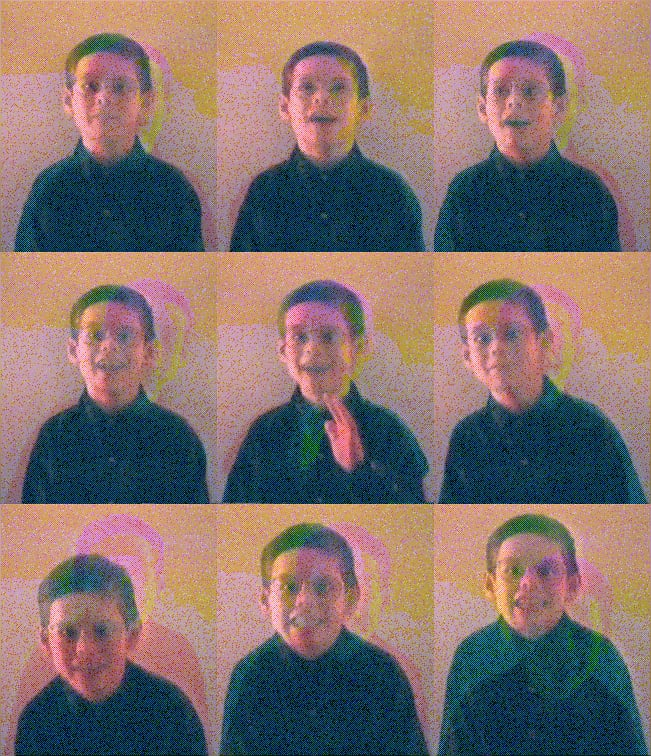
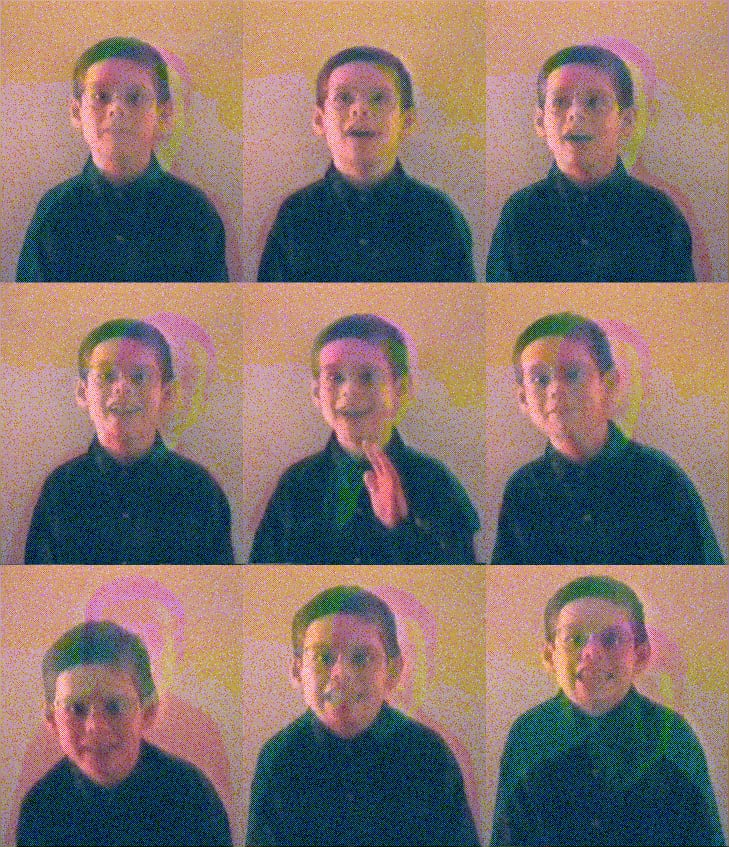
Play the kiddo clips from a frame sheet at 12fps
Each stegassette carried a still per frame at 6fps, and the page stretched
those stills across whatever length the audio turned out to be. It now carries
one sheet — every frame tiled into a single JPEG with a frames.json beside it
— and the clip runs on the frame rate the grid names.

The sheet is a bigger payload than the stills were, and these carriers had no
headroom, so every picture came back from the re-encode larger. The five
--og-width/--og-height pairs state those sizes, so the markup had to move with
the media. The thumbnails are of the new pixels.

diff --git a/kiddo/index.js b/kiddo/index.js
@@ -1,19 +1,22 @@
 // The kiddo gallery. A room per year, as in geese/ — one work, one viewport,
 // nothing else in it. Tapping the picture loads and plays it.
 //
-// A kiddo stegassette holds one audio entry, a run of `frame-001…` JPEG stills
-// at 6fps, and three text entries (Metadata, Quote, Message) the page does not
-// show yet. RevealPlayer decodes all of them and plays the audio; the stills
-// are ours to draw. There is no callback per frame, so the clip runs off its own
-// clock — `audioContext.currentTime - player.t0`, wrapped by `player.duration`
-// — which is the same clock the reveal sweeps on. One playhead, two pictures.
+// A kiddo stegassette holds one audio entry, a frame sheet — every still of the
+// clip tiled into one JPEG, with a `frames.json` beside it holding the grid —
+// and three text entries (Metadata, Quote, Message) the page does not show yet.
+// RevealPlayer decodes all of them and plays the audio; the sheet is ours to
+// draw from. There is no callback per frame, so the clip runs off its own clock
+// — `audioContext.currentTime - player.t0`, wrapped by `player.duration` —
+// which is the same clock the reveal sweeps on. One playhead, two pictures.
 //
 // `Stegassette` is the global installed by ../lib/stegassette.js.
 
-// How much of a frame's turn goes to dissolving into the next one. At 6fps a
-// cut lands hard, and the source is soft VHS: a dissolve over the tail of each
-// turn carries the motion without smearing the whole frame. 0 cuts, 1 dissolves
-// end to end and never holds a frame still.
+// How much of a frame's turn goes to dissolving into the next one. At 12fps a
+// cut still lands hard, and the source is soft VHS: a dissolve over the tail of
+// each turn carries the motion without smearing the whole frame. A share of the
+// turn rather than a span, so it holds its look at any frame rate — half of a
+// 12fps turn is ~42 ms. 0 cuts, 1 dissolves end to end and never holds a frame
+// still.
 const FADE = 0.5;
 
 // ease the ramp: a linear dissolve reads as a lurch through its midpoint
@@ -23,34 +26,55 @@ let audioContext;
 let current = null;
 let building = false;
 
-// the stills, in order. Names are zero-padded to a fixed width, so they sort
-// as strings — but sort explicitly rather than trusting entry order.
-async function loadFrames(entries) {
-  return Promise.all(
-    entries
-      .filter((e) => e.mimetype.startsWith("image/") && /^frame-\d+$/.test(e.name))
-      .sort((a, b) => a.name.localeCompare(b.name))
-      .map((e) => createImageBitmap(new Blob([e.data], { type: e.mimetype }))),
+// The clip, as one bitmap and the grid that walks it. A sheet is one entry
+// however long the clip is, where a still per frame costs an entry each — and
+// the header counts entries in a single byte, so a long clip at a real frame
+// rate cannot be carried that way at all. The grid names its own frame rate,
+// so the clip plays at the speed it was cut at rather than at whatever speed
+// its frame count over the audio's length works out to.
+async function loadSheet(entries) {
+  const sheet = entries.find(
+    (e) => e.name === "frames" && e.mimetype.startsWith("image/"),
   );
+  const grid = entries.find((e) => e.name === "frames.json");
+  if (!sheet || !grid) return null;
+  const { cols, cellWidth, cellHeight, count, fps } = JSON.parse(
+    new TextDecoder().decode(grid.data),
+  );
+  return {
+    bitmap: await createImageBitmap(new Blob([sheet.data], { type: sheet.mimetype })),
+    cols,
+    cellWidth,
+    cellHeight,
+    count,
+    fps,
+  };
 }
 
 // ── the clip ────────────────────────────────────────────────────────────────
 
-// `mix` is how far into the dissolve this frame is, 0–1
+// one cell of the sheet, drawn over the whole canvas — which build() sized to
+// exactly one cell, so the two can never disagree
+function drawCell(rec, i) {
+  const { bitmap, cols, cellWidth: cw, cellHeight: ch } = rec.sheet;
+  rec.ctx.drawImage(bitmap, (i % cols) * cw, Math.floor(i / cols) * ch, cw, ch, 0, 0, cw, ch);
+}
+
+// `mix` is how far into the dissolve this frame is, 0–1. Both cells cover the
+// canvas, so the outgoing frame needs no clear underneath.
 function paint(rec, i, mix) {
-  const { frames, film, ctx } = rec;
-  if (!frames?.[i]) return;
-  ctx.drawImage(frames[i], 0, 0, film.width, film.height);
+  if (!rec.sheet) return;
+  drawCell(rec, i);
   if (mix > 0) {
     // the clip loops with the audio, so the last frame dissolves into the first
-    ctx.globalAlpha = mix;
-    ctx.drawImage(frames[(i + 1) % frames.length], 0, 0, film.width, film.height);
-    ctx.globalAlpha = 1;
+    rec.ctx.globalAlpha = mix;
+    drawCell(rec, (i + 1) % rec.sheet.count);
+    rec.ctx.globalAlpha = 1;
   }
 }
 
 function runFilm(rec) {
-  const { player, frames } = rec;
+  const { player, sheet } = rec;
   const tick = () => {
     if (!player.playing) {
       rec.raf = null;
@@ -59,9 +83,11 @@ function runFilm(rec) {
     const raw = player.audioContext.currentTime - player.t0;
     const at = raw > 0 ? raw % player.duration : 0;
     // where the playhead sits in frames, not seconds: the whole part picks the
-    // frame, the fraction is how far through its turn we are
-    const pos = (at / player.duration) * frames.length;
-    const i = Math.min(frames.length - 1, Math.floor(pos));
+    // frame, the fraction is how far through its turn we are. The sheet carries
+    // its own frame rate, so a sheet that runs short of the audio holds its last
+    // frame rather than being stretched across it.
+    const pos = at * sheet.fps;
+    const i = Math.min(sheet.count - 1, Math.floor(pos));
     const into = pos - i;
     paint(
       rec,
@@ -99,13 +125,13 @@ async function build(rec) {
     audioContext,
     className: "rev",
   });
-  rec.frames = await loadFrames(rec.player.entries);
-  if (!rec.frames.length) throw new Error("no frame entries in stegassette");
+  rec.sheet = await loadSheet(rec.player.entries);
+  if (!rec.sheet) throw new Error("no frame sheet in stegassette");
 
-  // the clip's pane is sized by one edge; the frames' own ratio finds the
+  // the clip's pane is sized by one edge; the cell's own ratio finds the
   // other, and that ratio comes out of the payload rather than a guess here
-  rec.film.width = rec.frames[0].width;
-  rec.film.height = rec.frames[0].height;
+  rec.film.width = rec.sheet.cellWidth;
+  rec.film.height = rec.sheet.cellHeight;
   rec.room.style.setProperty("--film-share", rec.film.width / rec.film.height);
 
   // the decode surface covers the button; the thumbnail stays to hold the frame
@@ -163,7 +189,7 @@ document.querySelectorAll(".room[data-year]").forEach((room) => {
     media: room.querySelector("img.media"),
     film: room.querySelector(".film canvas"),
     player: null,
-    frames: null,
+    sheet: null,
     raf: null,
   };
   rec.ctx = rec.film.getContext("2d");

diff --git a/kiddo/index.html b/kiddo/index.html
@@ -208,7 +208,7 @@
         class="room"
         data-year="1992"
         data-shape="wide"
-        style="--og-width: 1368px; --og-height: 379px"
+        style="--og-width: 1513px; --og-height: 419px"
       >
         <button class="work" aria-pressed="false">
           <img
@@ -236,7 +236,7 @@
         class="room"
         data-year="1994"
         data-shape="wide"
-        style="--og-width: 1391px; --og-height: 1034px"
+        style="--og-width: 1664px; --og-height: 1237px"
       >
         <button class="work" aria-pressed="false">
           <img
@@ -264,7 +264,7 @@
         class="room"
         data-year="1995"
         data-shape="tall"
-        style="--og-width: 651px; --og-height: 756px"
+        style="--og-width: 729px; --og-height: 847px"
       >
         <button class="work" aria-pressed="false">
           <img
@@ -292,7 +292,7 @@
         class="room"
         data-year="1997"
         data-shape="tall"
-        style="--og-width: 559px; --og-height: 806px"
+        style="--og-width: 650px; --og-height: 936px"
       >
         <button class="work" aria-pressed="false">
           <img
@@ -320,7 +320,7 @@
         class="room"
         data-year="2002"
         data-shape="wide"
-        style="--og-width: 1351px; --og-height: 583px"
+        style="--og-width: 1632px; --og-height: 705px"
       >
         <button class="work" aria-pressed="false">
           <img
@@ -347,7 +347,7 @@
       <section class="room placard">
         <p>
           The visual distortion in these images is the result of an audio
-          waveform, image frames (6fps), and text, stored in image pixels. They
+          waveform, image frames (12fps), and text, stored in image pixels. They
           were created using code libraries that can be found at
           <a href="https://amplib.app">amplib.app</a>. The same tools are used
           here to decode and play them back as sound and&nbsp;video.

diff --git a/kiddo/README.md b/kiddo/README.md
@@ -2,9 +2,16 @@
 
 Five moments of home video — 1992, 1994, 1995, 1997, 2002 — one picture each.
 
-Each stegassette holds the whole moment: the audio, a run of `frame-001…`
-JPEG stills at 6fps and 128px wide, and three text entries (`Metadata`,
-`Quote`, `Message`). There are no video or audio files on this page.
+Each stegassette holds the whole moment: the audio, a frame sheet — every
+still of the clip at 12fps and 128px wide, tiled into one JPEG, with a
+`frames.json` beside it holding the grid — and three text entries
+(`Metadata`, `Quote`, `Message`). There are no video or audio files on this
+page.
+
+A sheet is one entry however long the clip is, where a still per frame costs
+an entry each. The header counts entries in a single byte, so a per-frame
+sequence wraps past 255 and takes the entry table with it — which is what
+these clips do at this frame rate.
 
 The page is built on `geese/`: a promenade of rooms, one work to a room, each
 picture hung at its own native size against a veiled enlargement of itself.
@@ -20,17 +27,24 @@ The text entries are decoded and go unused for now. The page showed them on a
 card beside the clip — the scene, the year, the quote, and the note I wrote
 back to the kid in the picture. `git show 21fc663:kiddo/index.html` has it.
 
-The clip dissolves rather than cuts. Six frames a second is slow enough that
-a cut reads as a stutter, so each frame holds for the first part of its turn
-and crossfades into the next over the rest. `FADE` in `index.js` sets how
-much of the turn goes to the dissolve: 0 cuts, 1 never holds a frame still.
+The clip dissolves rather than cuts. Twelve frames a second is still slow
+enough that a cut reads as a stutter, so each frame holds for the first part
+of its turn and crossfades into the next over the rest. `FADE` in `index.js`
+sets how much of the turn goes to the dissolve: 0 cuts, 1 never holds a frame
+still.
 
 `index.js` drives `Stegassette.createRevealPlayer` from `../lib/stegassette.js`.
-The player exposes `entries`, so the stills and the text come straight off it.
+The player exposes `entries`, so the sheet and the text come straight off it.
 It gives no per-frame callback, so the clip runs off the player's own clock —
 `audioContext.currentTime - player.t0`, wrapped by `player.duration` — the
-same clock the reveal sweeps on.
+same clock the reveal sweeps on. The grid names its own frame rate, so the
+clip plays at the speed it was cut at rather than being stretched across
+whatever length the audio turned out to be.
 
 The pictures come from the `stegassette-jobs` pipeline
 (`jobs/kiddo.jobs.json`), which also generates `media/thumbs`. Each job pins
 its `seed` to its year, so a re-encode reproduces the file that ships here.
+The carrier grows to hold what it is given: the sheet is a larger payload
+than the stills were, so every picture came back from that re-encode bigger
+than it went in. `--og-width` and `--og-height` in the markup state those
+sizes, and a re-encode has to be copied back into them.
